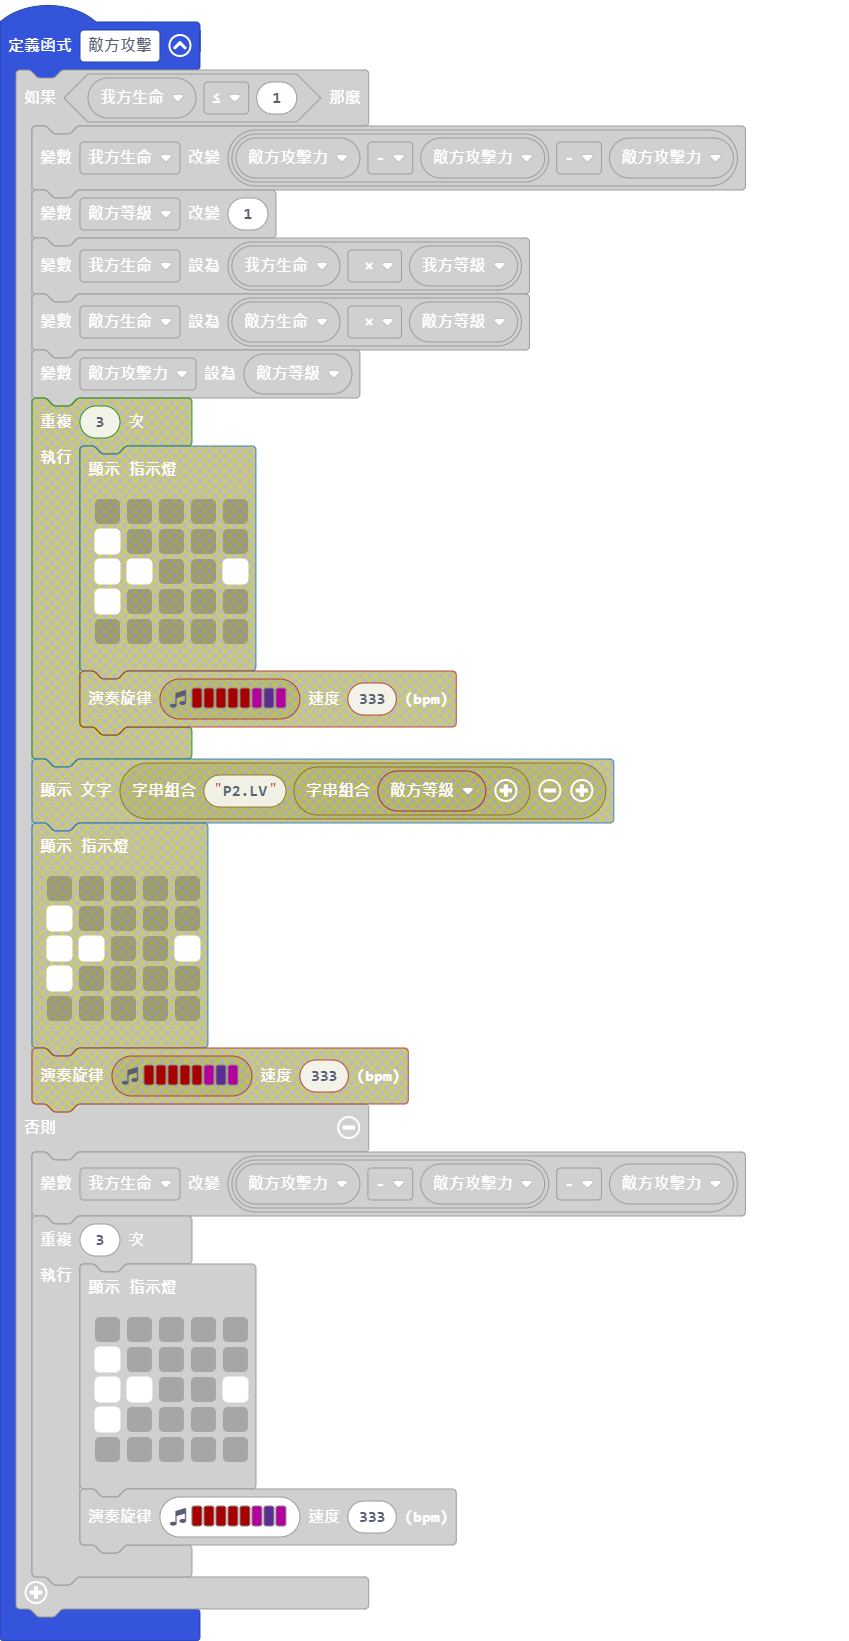
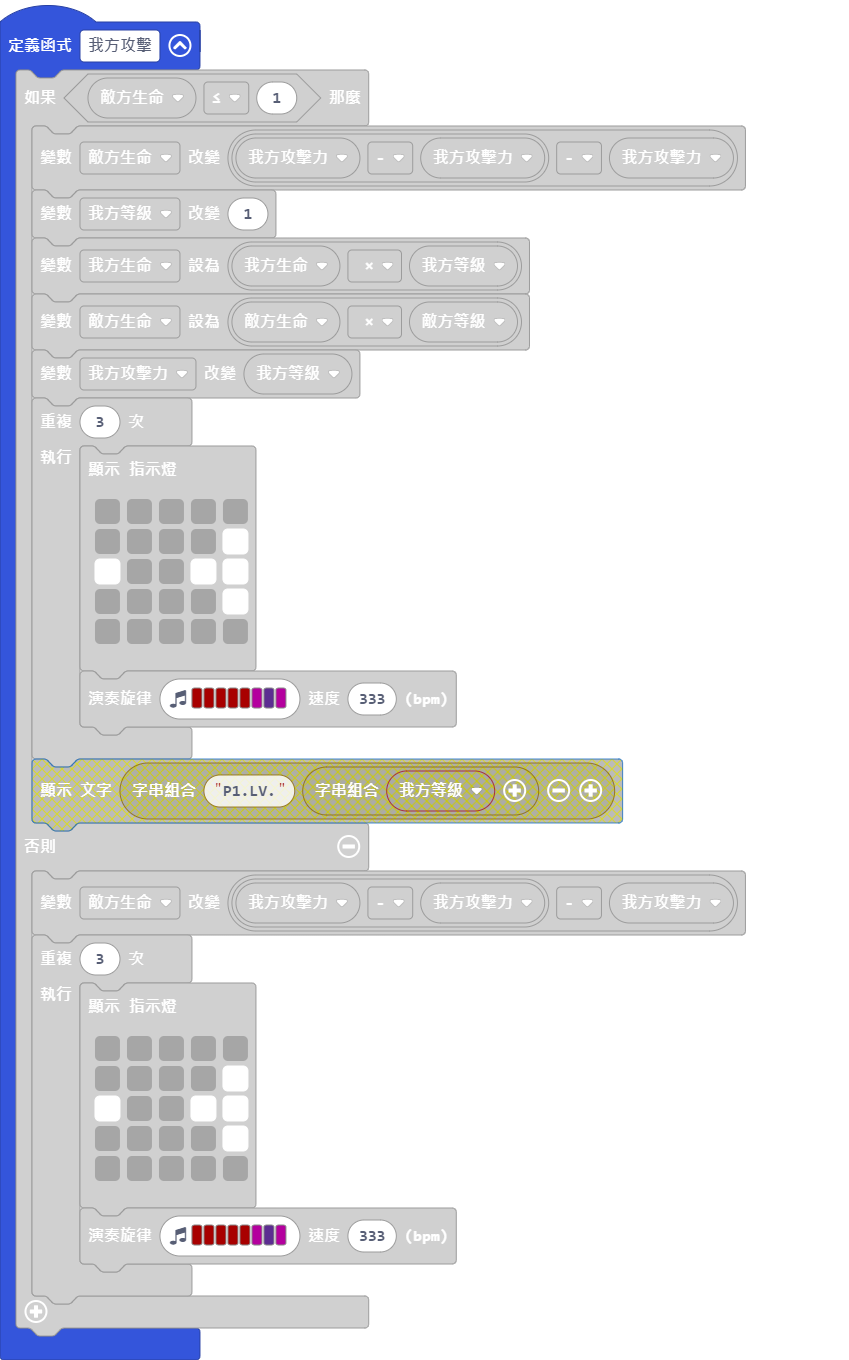
更新 main.blocks, main.ts

diff --git a/main.ts b/main.ts
@@ -50,7 +50,6 @@ function 我方攻擊 () {
                 `)
             music.playMelody("C5 C5 C5 C5 C5 C D C ", 333)
         }
-        basic.showString("P1.LV." + ("" + 我方等級))
     } else {
         敵方生命 += 我方攻擊力 - 我方攻擊力 - 我方攻擊力
         for (let index = 0; index < 3; index++) {
